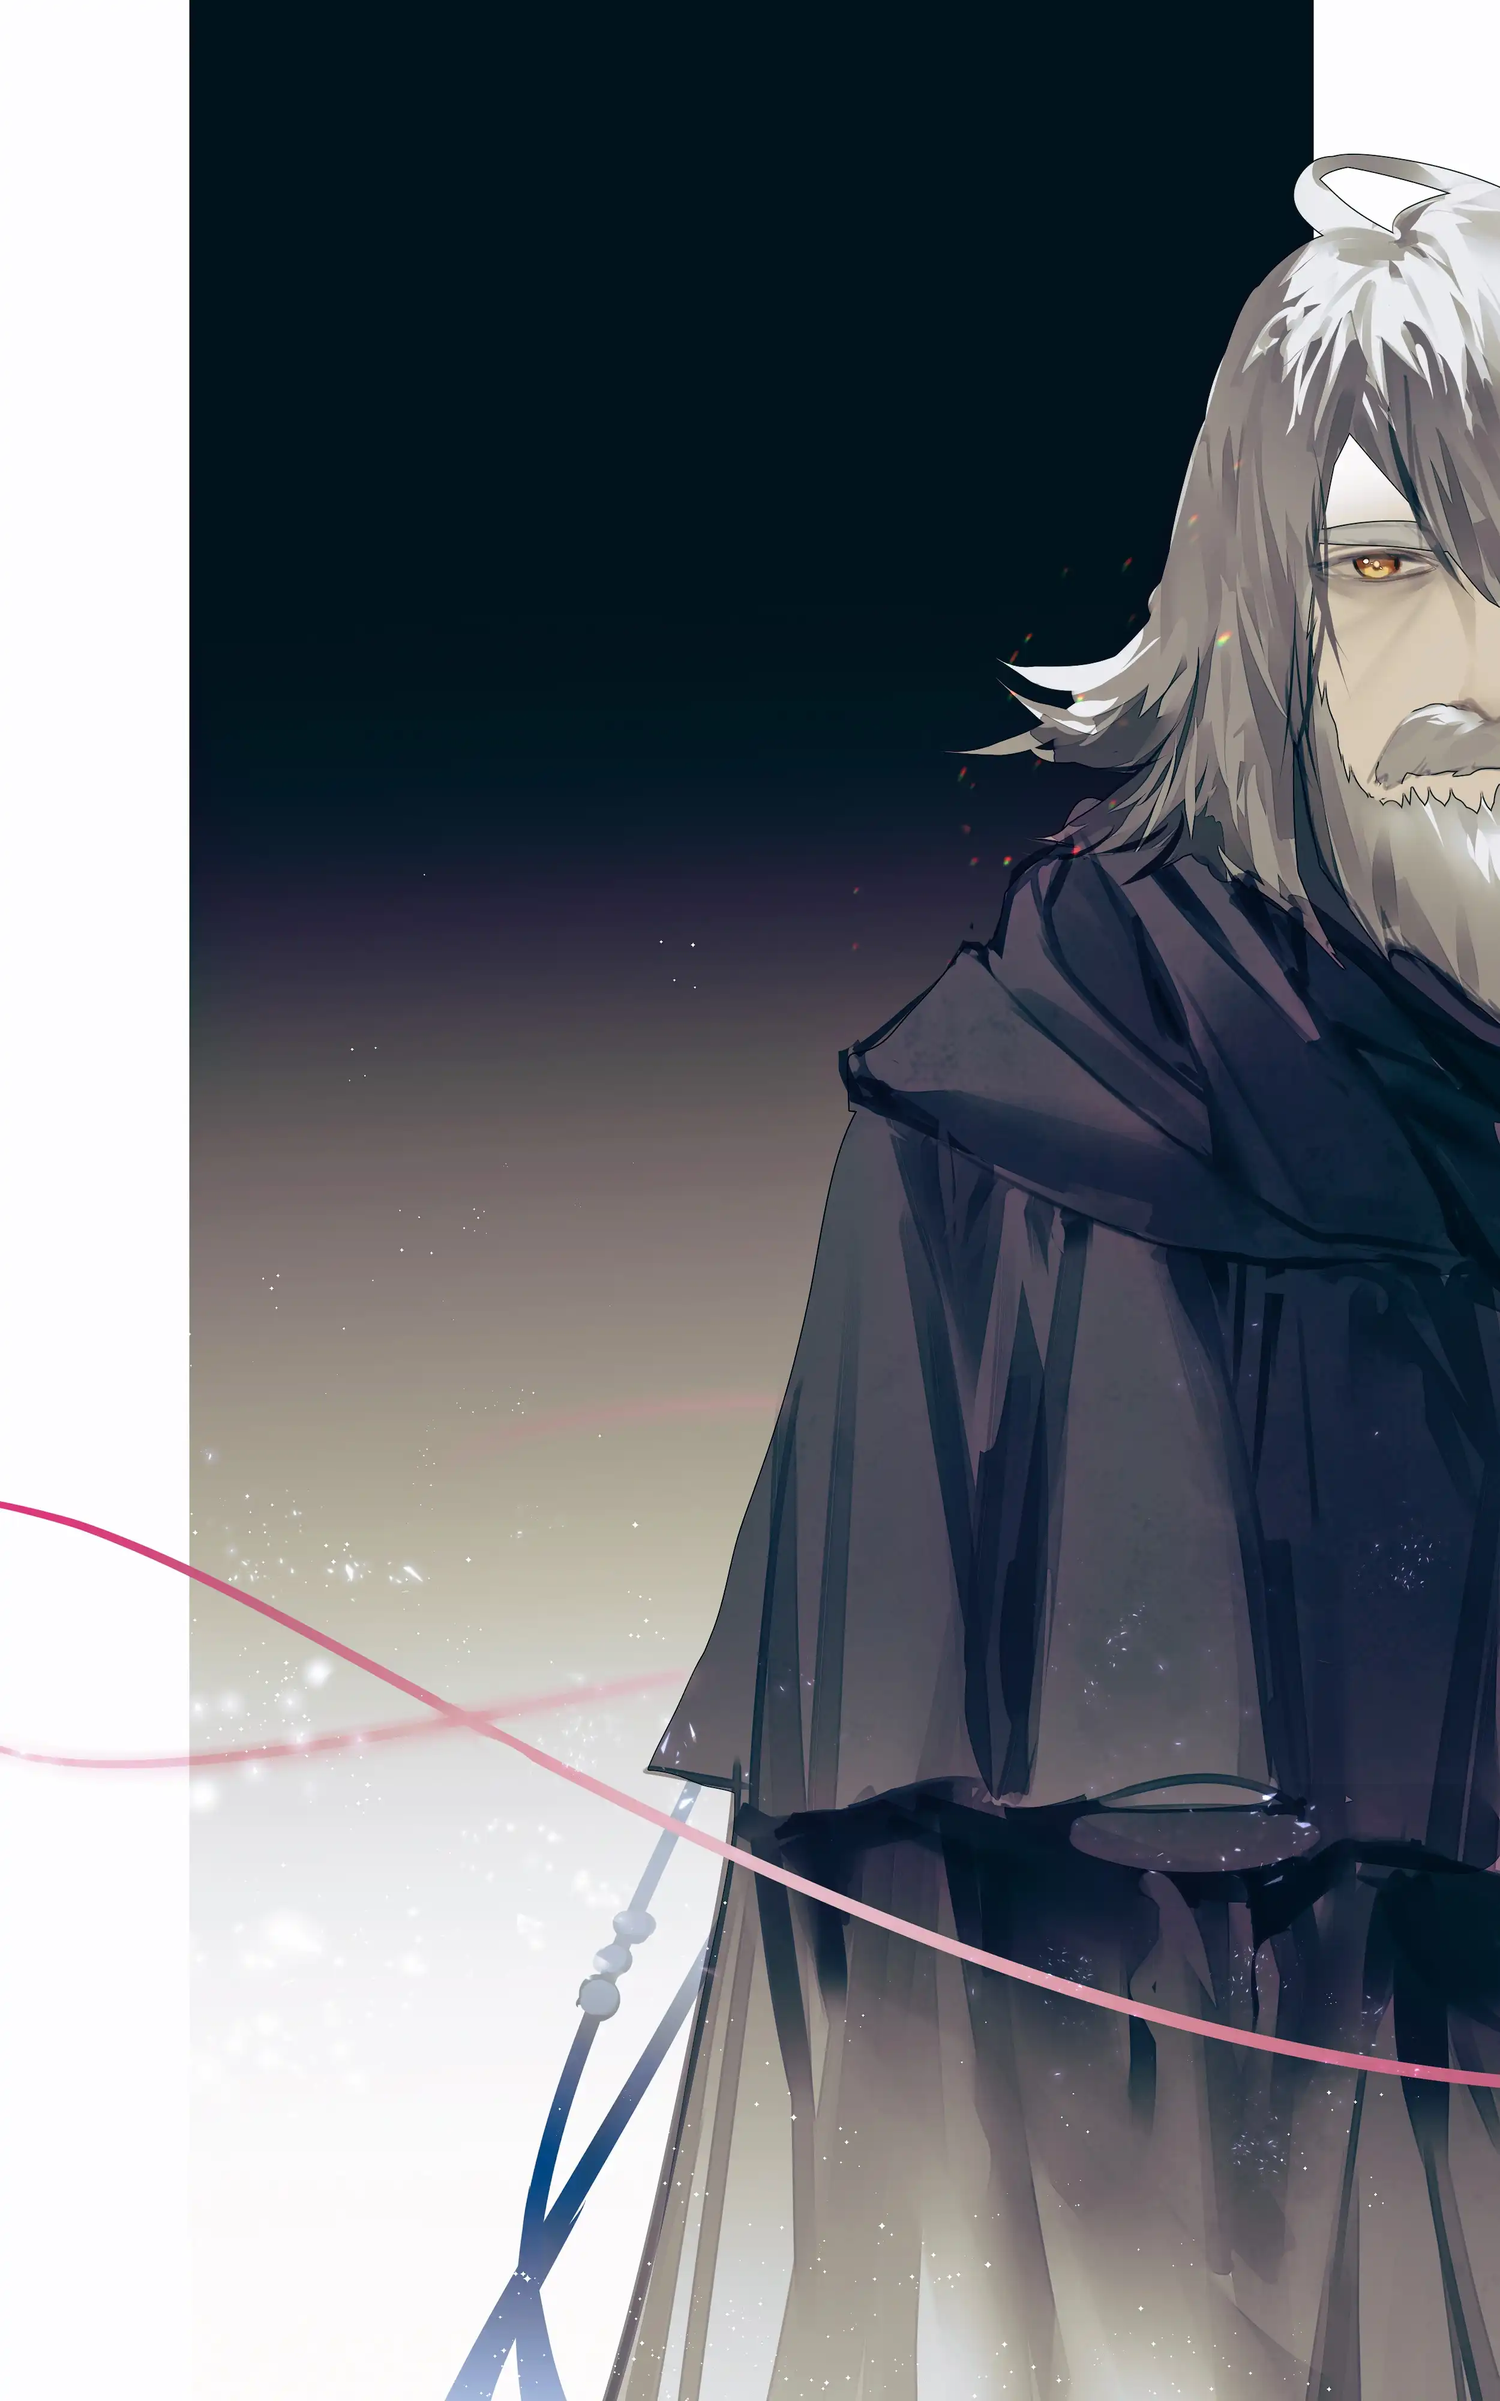
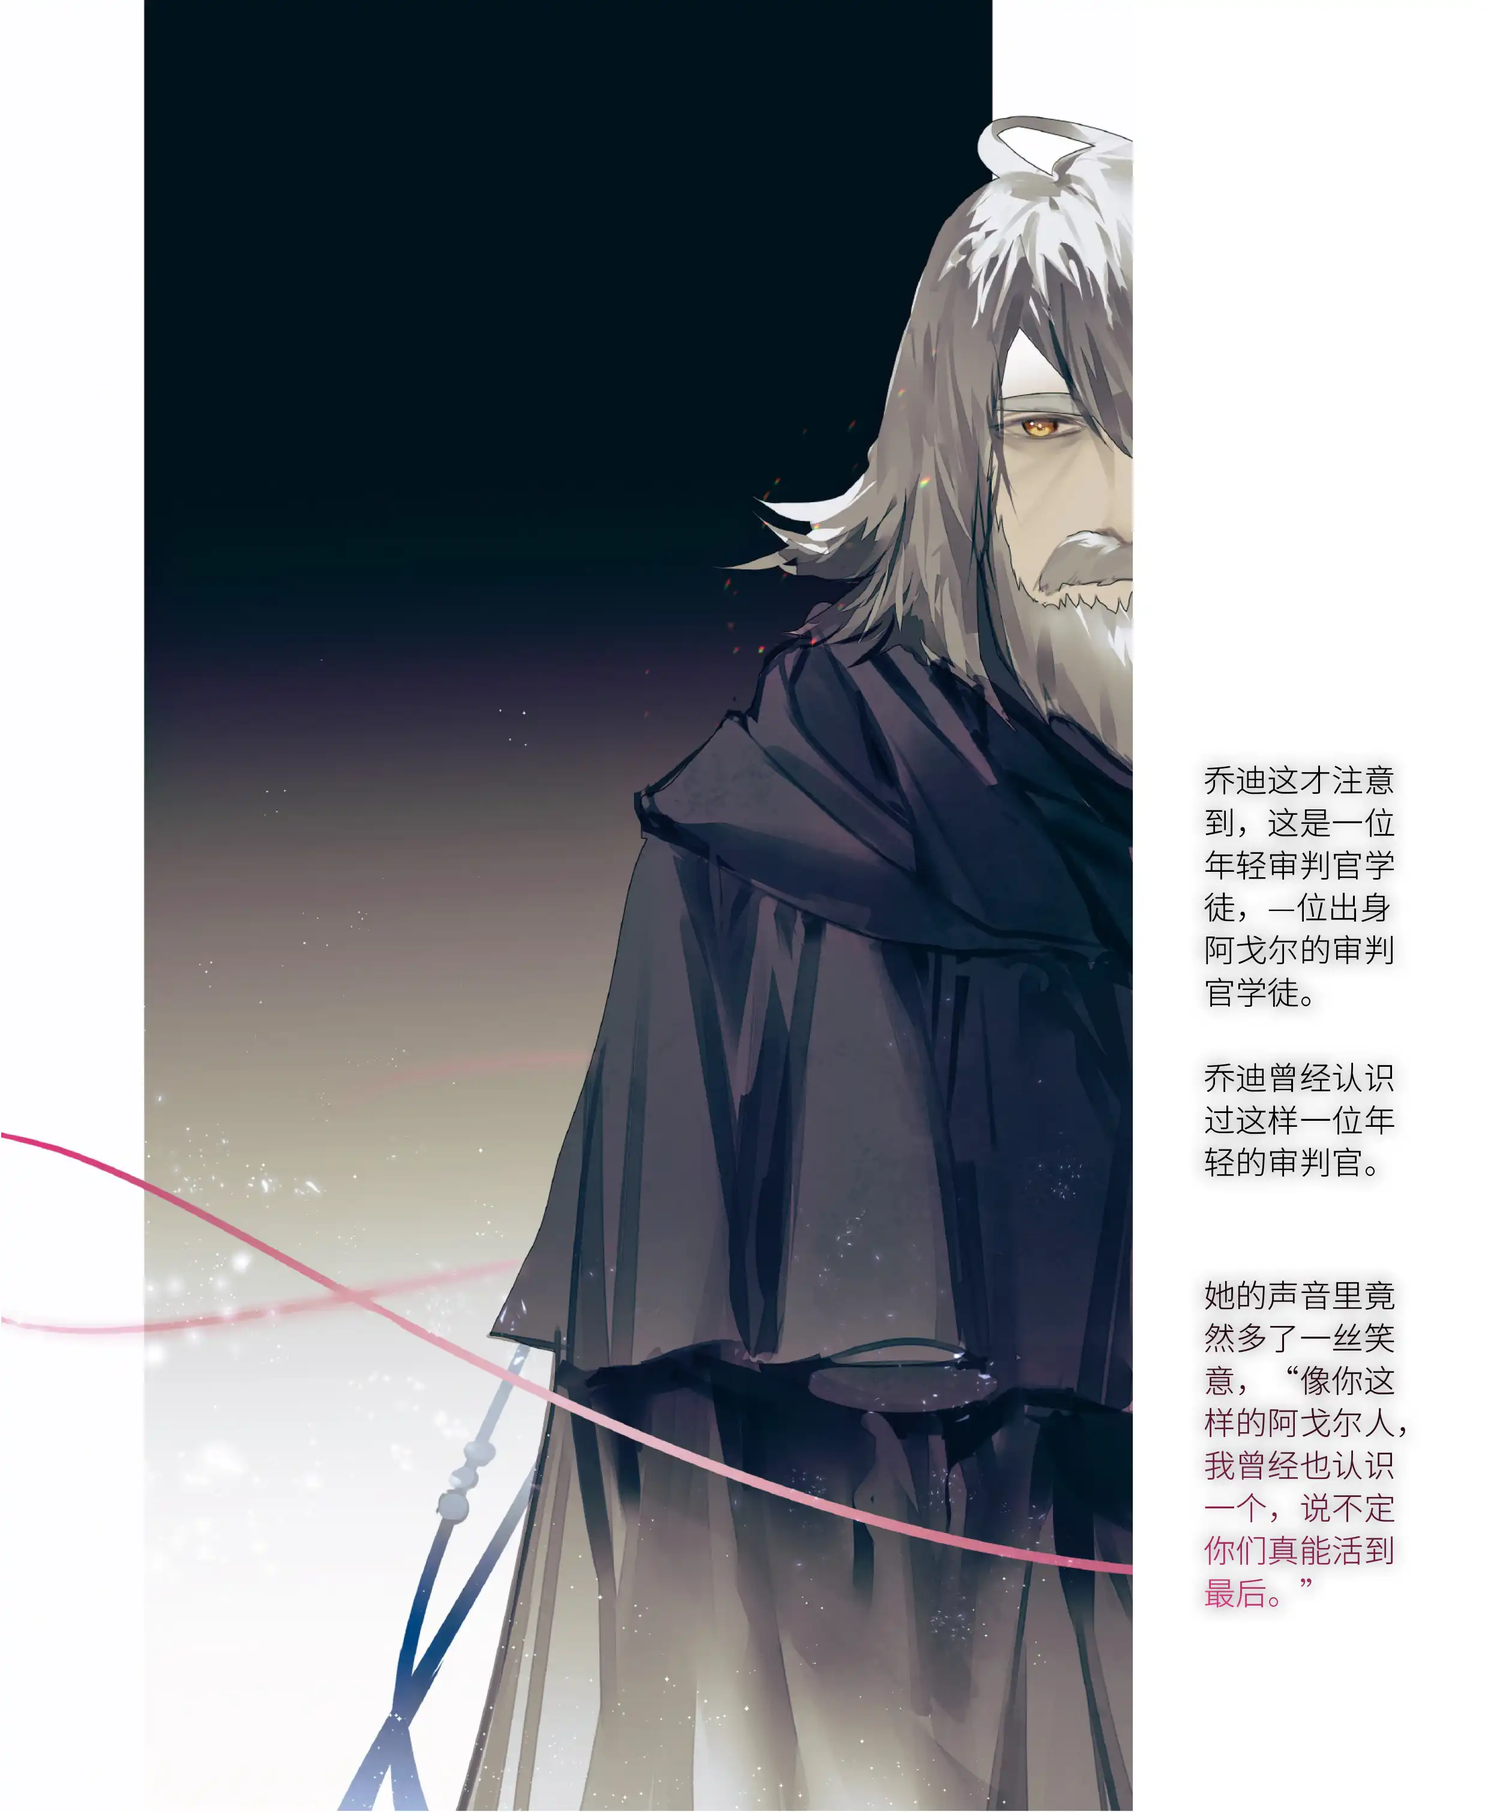
update

diff --git a/docs/posts/2023-01/comic1.md b/docs/posts/2023-01/comic1.md
@@ -11,21 +11,13 @@ tag:
 order: -3
 ---
 
-<style>
-tr, td, th {
-   border: none!important;
-}
-table th:nth-of-type(2) {
-    width: 20%;
-}
-</style>
+![](./res/comic/comic1.webp) {.centering}
 
-|  |  |
-| --- | --- |
-|![](./res/comic/comic1.webp) {.centering}|艾丽妮握住了他的手。<br><br>阿戈尔人的手和黎博利的没有区别。|
-|![](./res/comic/comic2.webp) {.centering}|艾丽妮笑了笑，这时候乔迪才想起，论年龄，他们不相上下，“你见证了审判庭的抗争。在灯塔守望着我们一次次的凯旋。你记住那些牺牲的英雄，你也记佳我们枉死的人民。提灯不当是凶器。灯火是我们的希望。”<br><br>艾丽妮顿了顿，“你得记住它，将它传唱下去。”|
-|![](./res/comic/comic3.webp) {.centering}|乔迪这才注意到，这是一位年轻的审判官学徒，—位出身阿戈尔的审判官学徒。乔迪曾经认识过这样一位年轻的审判官。<br><br>她的声音里竟然多了一丝笑意，“像你这样的阿戈尔人，我曾经也认识一个，说不定你们真能活到最后。”|
-|![](./res/comic/comic4.webp) {.centering}|“再见，乔迪 •方塔纳罗萨。”“再见。”|
+![](./res/comic/comic2.webp) {.centering}
+
+![](./res/comic/comic3.webp) {.centering}
+
+![](./res/comic/comic4.webp) {.centering}
 
 此处可能展示泰拉广告。<a href="/about-ads">了解详情</a>{style="text-align: right"}
 

diff --git a/docs/posts/2023-01/paintings.md b/docs/posts/2023-01/paintings.md
@@ -47,6 +47,12 @@ Artist: 霓秋nikiyo
 
 Artist: 淹城挖出的那只小舟
 
+---
+
+![](./res/illustration/帕拉斯（黑泥型芙芙）.webp) {.centering}
+
+Artist: 黑泥型芙芙
+
 此处可能展示泰拉广告。<a href="/about-ads">了解详情</a>{style="text-align: right"}
 
 [![](./res/ads/ym1.webp) ](https://www.bilibili.com/video/BV1uT4y1P7CX/){.centering}
